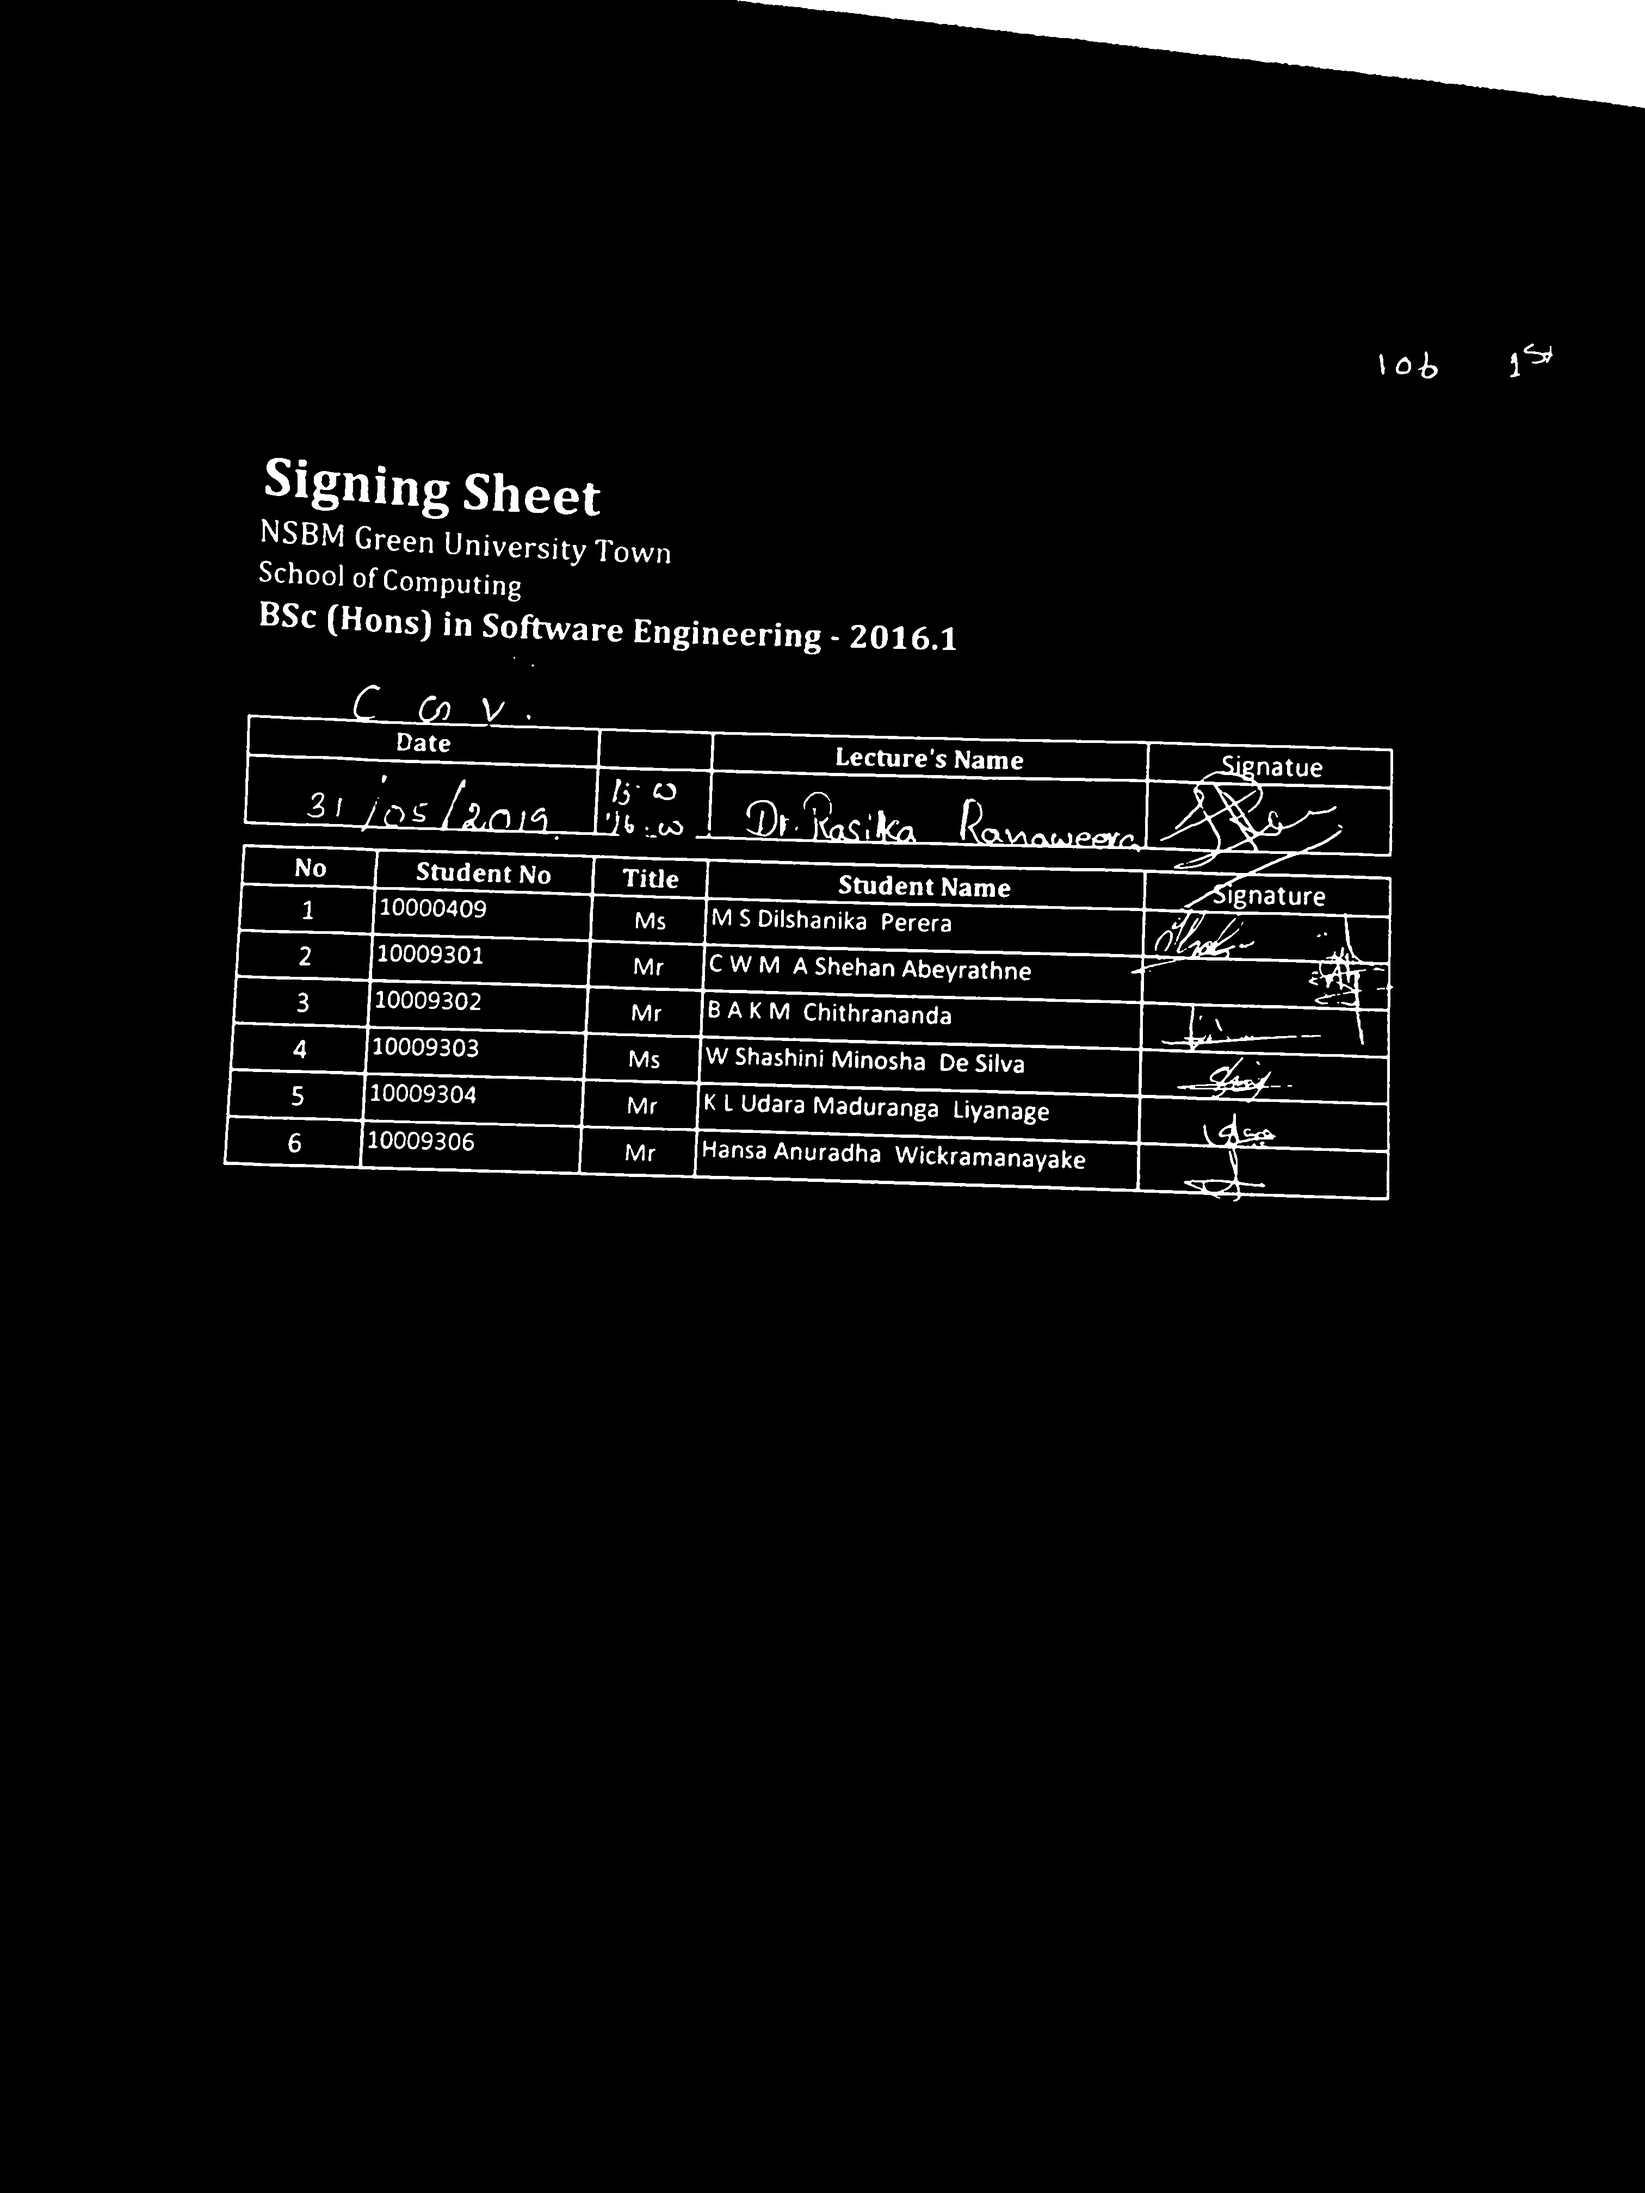
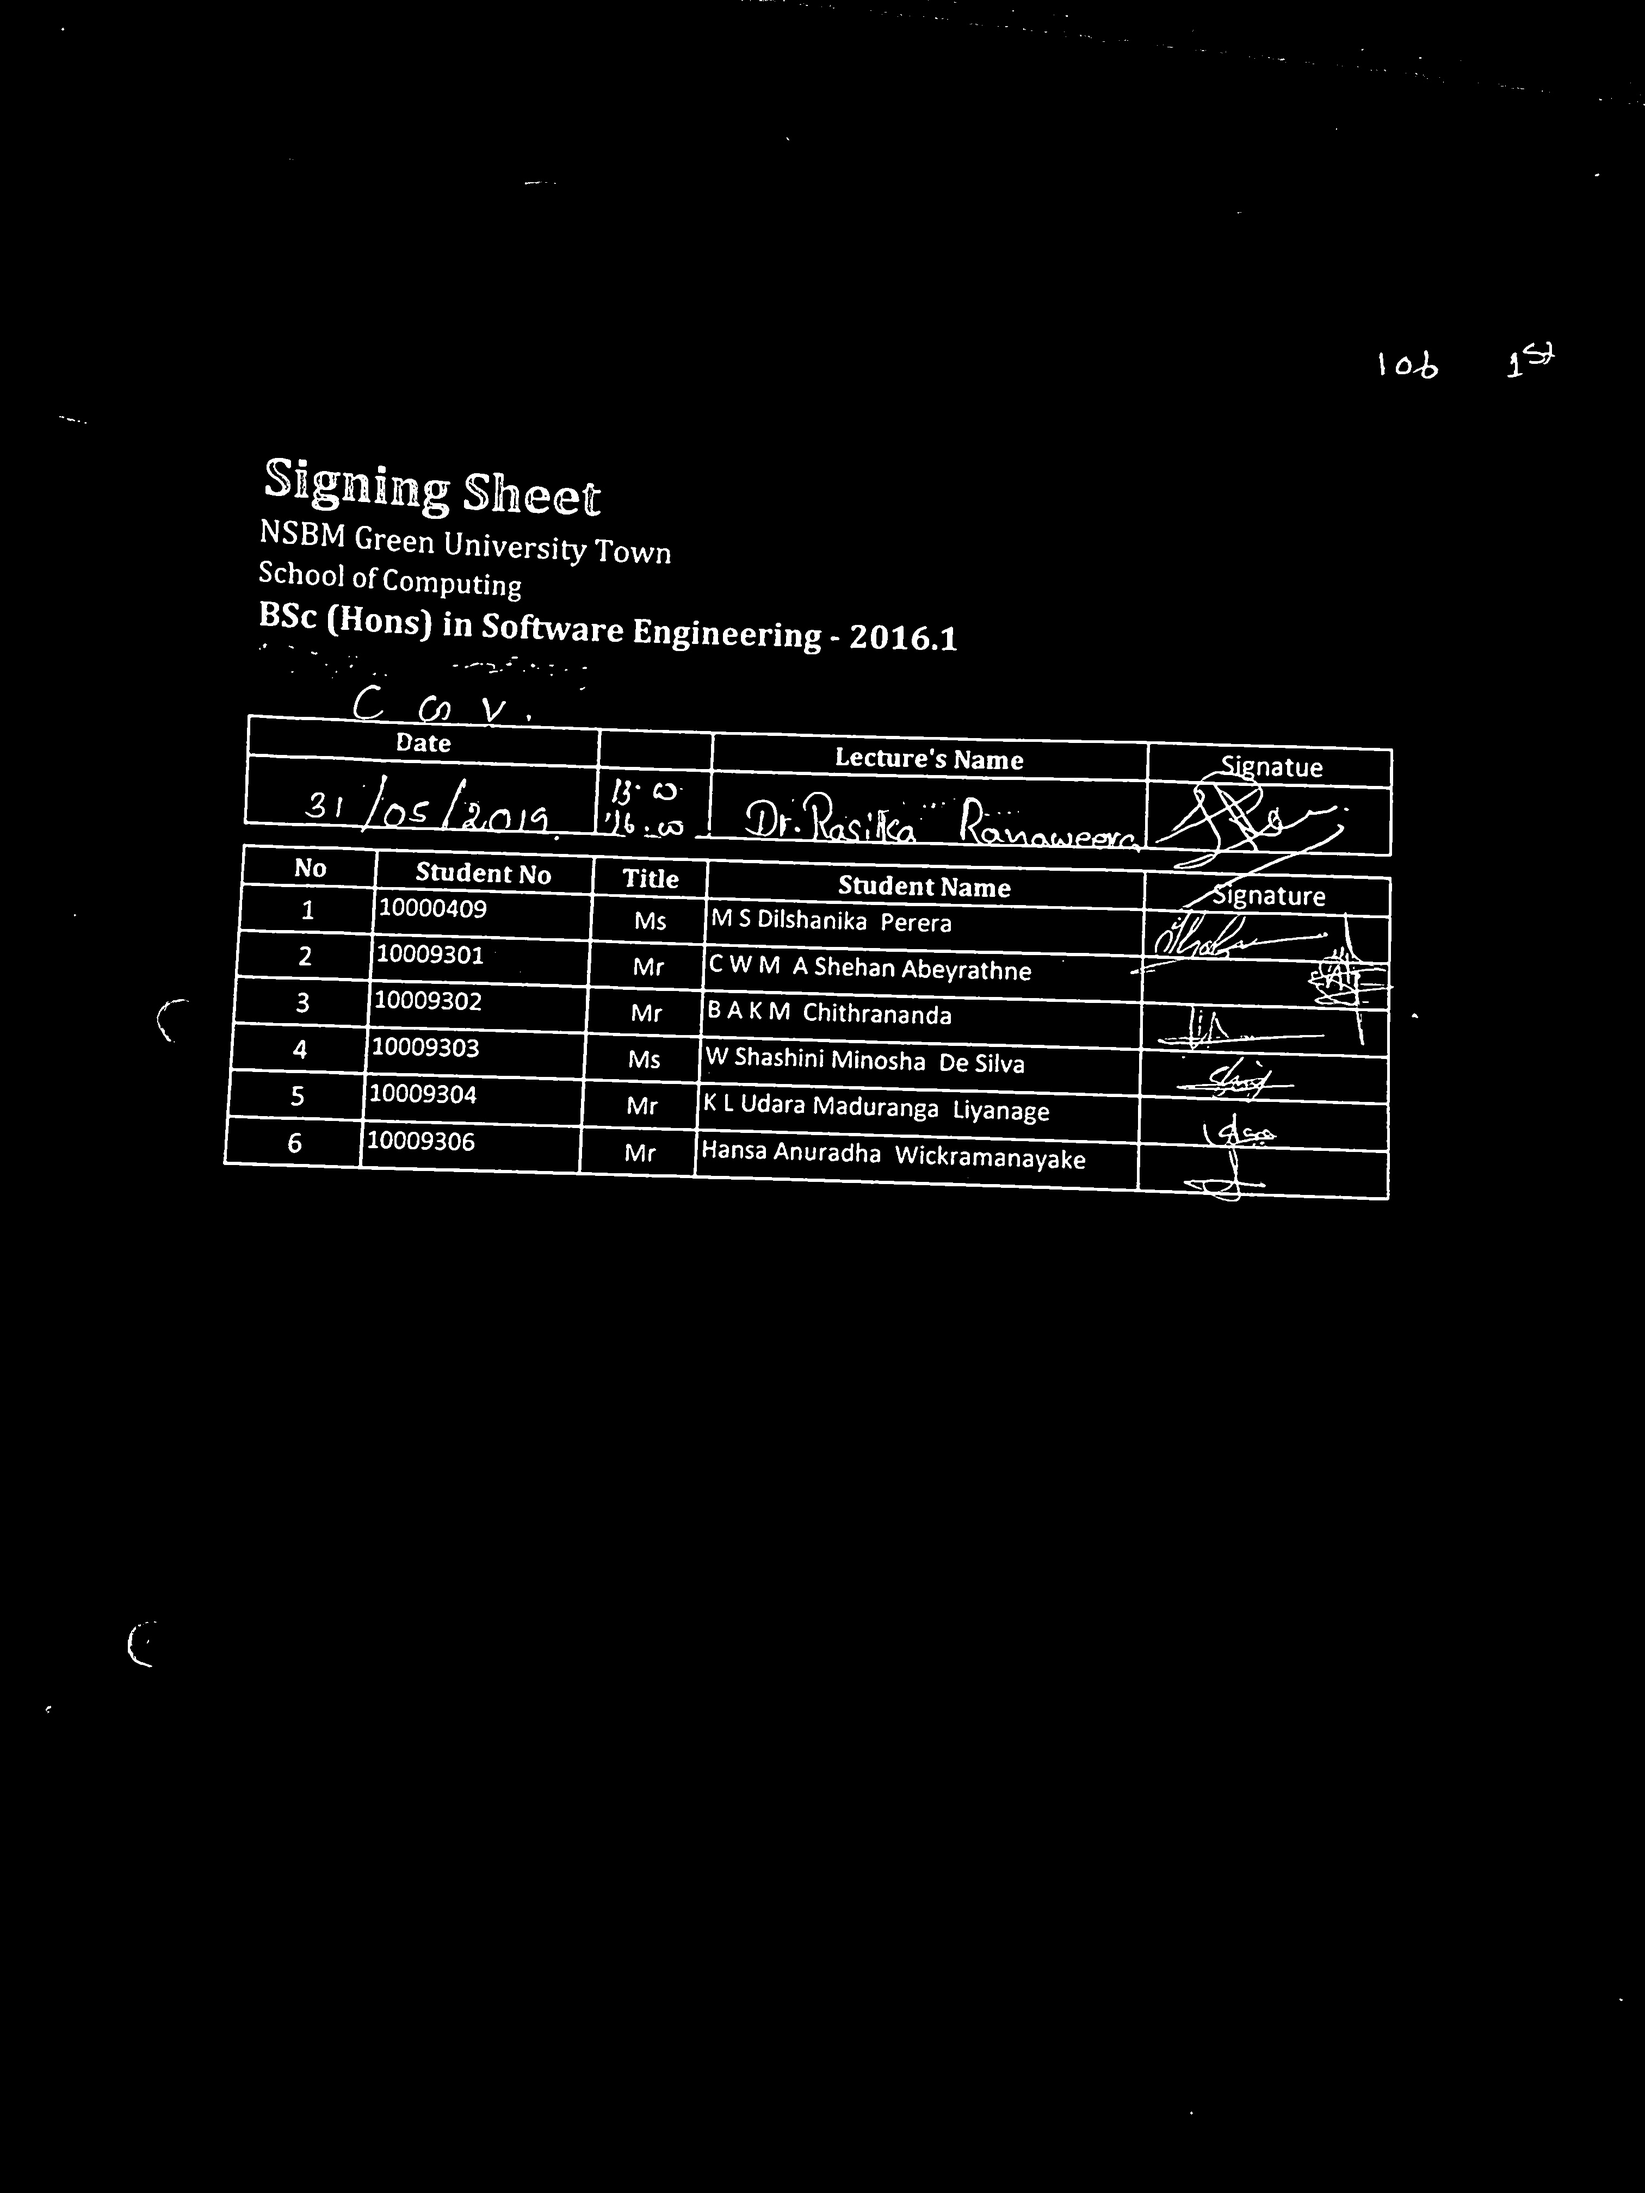
change some logic and add new pages

Changed region(s): [[0.4974, 0.0, 1.0, 0.0625]]

diff --git a/scratch/debug_roi.py b/scratch/debug_roi.py
@@ -1,0 +1,69 @@
+import cv2
+import sqlite3
+import numpy as np
+
+# Simulate analyze_attendance_web
+binarized_img = cv2.imread(r"c:\Users\94781\Documents\GitHub\CV-Based-Attendance-Marking-System\static\uploads\thresh_3.jpeg", cv2.IMREAD_GRAYSCALE)
+
+height, width = binarized_img.shape
+
+kernel_len = width // 100
+horiz_kernel = cv2.getStructuringElement(cv2.MORPH_RECT, (kernel_len, 1))
+
+image_horizontal = cv2.erode(binarized_img, horiz_kernel, iterations=3)
+horizontal_lines = cv2.dilate(image_horizontal, horiz_kernel, iterations=3)
+
+contours, _ = cv2.findContours(horizontal_lines, cv2.RETR_EXTERNAL, cv2.CHAIN_APPROX_SIMPLE)
+
+y_coords = []
+for c in contours:
+    x, y, w, h = cv2.boundingRect(c)
+    if w > width * 0.3:
+        y_coords.append(y)
+        
+y_coords = sorted(list(set(y_coords)))
+
+filtered_y = []
+for y in y_coords:
+    if not filtered_y or y - filtered_y[-1] > 10:
+        filtered_y.append(y)
+
+num_students = 6
+print(f"filtered_y: {filtered_y}")
+if len(filtered_y) >= num_students + 1:
+    row_boundaries = filtered_y[-(num_students + 1):]
+else:
+    # Fallback to naive splitting
+    row_boundaries = [i * (height // num_students) for i in range(num_students + 1)]
+
+print(f"row_boundaries: {row_boundaries}")
+
+for i in range(num_students):
+    y_start = row_boundaries[i]
+    y_end = row_boundaries[i + 1]
+
+    # Current settings
+    x_start = int(width * 0.6)
+    x_end = width
+    
+    margin_y = 10
+    margin_x = 10
+    safe_y_start = min(y_start + margin_y, y_end)
+    safe_y_end = max(y_end - margin_y, y_start)
+    safe_x_start = min(x_start + margin_x, x_end)
+    safe_x_end = max(x_end - margin_x, x_start)
+
+    # New settings
+    x_start_new = int(width * 0.68)
+    x_end_new = int(width * 0.80)
+    margin_y_new = 10
+    margin_x_new = 0
+    safe_y_start_new = min(y_start + margin_y_new, y_end)
+    safe_y_end_new = max(y_end - margin_y_new, y_start)
+    safe_x_start_new = min(x_start_new + margin_x_new, x_end_new)
+    safe_x_end_new = max(x_end_new - margin_x_new, x_start_new)
+    
+    roi_new = binarized_img[safe_y_start_new:safe_y_end_new, safe_x_start_new:safe_x_end_new]
+    pixel_count_new = cv2.countNonZero(roi_new)
+    cv2.imwrite(rf"c:\Users\94781\Documents\GitHub\CV-Based-Attendance-Marking-System\scratch\roi_new_{i}.png", roi_new)
+    print(f"Student {i} (New config): pixel_count = {pixel_count_new}")

diff --git a/services.py b/services.py
@@ -12,10 +12,10 @@ from config import Config
 class AttendanceManager:
     """Manages attendance marking and image processing"""
     
-    SIGNATURE_START_RATIO = 0.6
+    SIGNATURE_START_RATIO = 0.68
     THRESHOLD_VALUE = 127
     MEDIAN_BLUR_SIZE = 5
-    PRESENT_PIXEL_THRESHOLD = 100
+    PRESENT_PIXEL_THRESHOLD = 1000
 
     def __init__(self, db_name=None):
         self.db_name = db_name or Config.DATABASE
@@ -104,11 +104,19 @@ class AttendanceManager:
             x_start = int(
                 width * self.SIGNATURE_START_RATIO
             )
-            x_end = width
+            x_end = int(width * 0.82)
+            
+            # Shrink ROI to avoid table borders being counted as present pixels
+            margin_y = 10
+            margin_x = 10
+            safe_y_start = min(y_start + margin_y, y_end)
+            safe_y_end = max(y_end - margin_y, y_start)
+            safe_x_start = min(x_start + margin_x, x_end)
+            safe_x_end = max(x_end - margin_x, x_start)
 
             signature_roi = binarized_img[
-                y_start:y_end,
-                x_start:x_end
+                safe_y_start:safe_y_end,
+                safe_x_start:safe_x_end
             ]
 
             pixel_count = cv2.countNonZero(

diff --git a/scratch/draw_boxes.py b/scratch/draw_boxes.py
@@ -1,0 +1,17 @@
+import cv2
+import numpy as np
+
+img = cv2.imread(r"c:\Users\94781\Documents\GitHub\CV-Based-Attendance-Marking-System\static\uploads\thresh_3.jpeg")
+height, width = img.shape[:2]
+
+# Draw x_start and x_end lines
+x1 = int(width * 0.6)
+x2 = width
+cv2.line(img, (x1, 0), (x1, height), (0, 0, 255), 5) # Red for 0.6
+
+x3 = int(width * 0.75)
+x4 = int(width * 0.95)
+cv2.line(img, (x3, 0), (x3, height), (0, 255, 0), 5) # Green for 0.75
+cv2.line(img, (x4, 0), (x4, height), (0, 255, 0), 5)
+
+cv2.imwrite(r"c:\Users\94781\Documents\GitHub\CV-Based-Attendance-Marking-System\scratch\debug_lines.jpeg", img)

diff --git a/config.py b/config.py
@@ -5,7 +5,7 @@ BASE_DIR = os.path.abspath(os.path.dirname(__file__))
 class Config:
     """Base configuration"""
     SECRET_KEY = os.environ.get("SECRET_KEY", "sams-secret-key-super-secure-2026")
-    UPLOAD_FOLDER = os.path.join(BASE_DIR, "app", "static", "uploads")
+    UPLOAD_FOLDER = os.path.join(BASE_DIR, "static", "uploads")
     DATABASE = os.path.join(BASE_DIR, "attendance.db")
     
     # Computer Vision Engine Defaults

diff --git a/signature_processor.py b/signature_processor.py
@@ -36,8 +36,8 @@ class SignatureSheetProcessor:
 
     def _binarize(self, gray_img):
         smoothed = cv2.medianBlur(gray_img, self.blur_kernel)
-        _, thresholded = cv2.threshold(
-            smoothed, self.threshold, 255, cv2.THRESH_BINARY_INV
+        thresholded = cv2.adaptiveThreshold(
+            smoothed, 255, cv2.ADAPTIVE_THRESH_GAUSSIAN_C, cv2.THRESH_BINARY_INV, 21, 10
         )
         return thresholded
 
